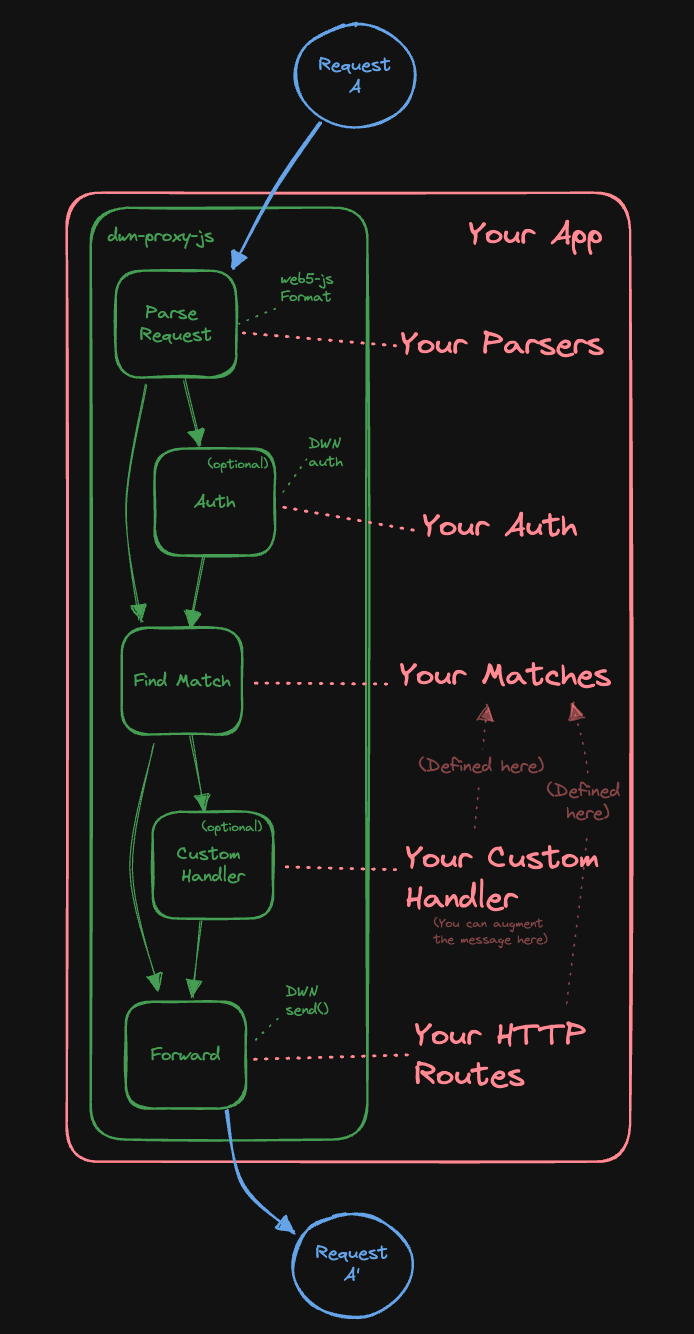
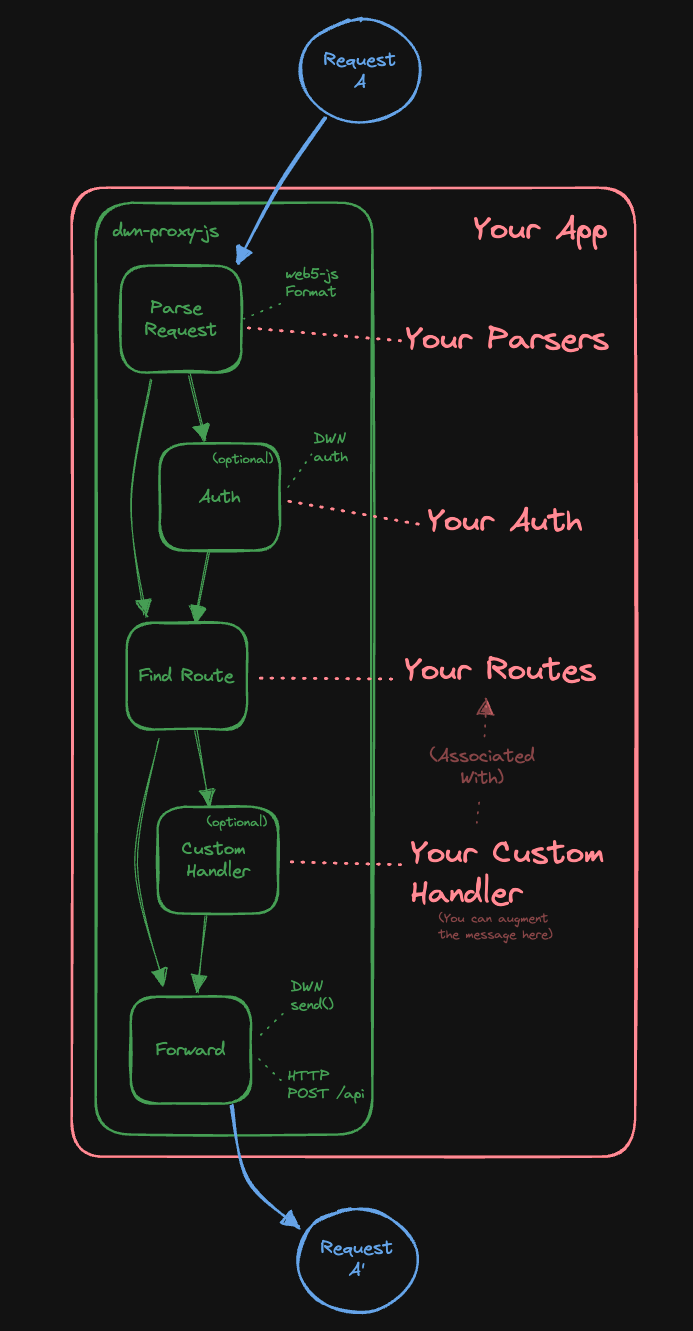
formalizing

diff --git a/README.md b/README.md
@@ -17,12 +17,12 @@ npm install @tbd54566975/dwn-proxy-js
 ```
 
 ```typescript
-import { Message, Matches, Server } from "dwn-proxy-js";
+import { Message, Routes, Server } from "dwn-proxy-js";
 
 const PORT = 3001;
 
-const yourMatches = new Matches();
-yourMatches.add({
+const yourRoutes = new Routes();
+yourRoutes.add({
   interface: 'Records',
   method: 'Write',
   protocol: 'tbdex',
@@ -33,14 +33,14 @@ yourMatches.add({
     return {...message} // you can augment this thing here
   }
 });
-yourMatches.add({
+yourRoutes.add({
   // ... more matches
 });
 
 // you can also define custom parsers & auth here
 Server.start(
   PORT,
-  yourMatches
+  yourRoutes
 );
 ```
 
@@ -54,7 +54,7 @@ Server.start(
 
 ...
 
-## Matches
+## Routing
 
 ...
 
